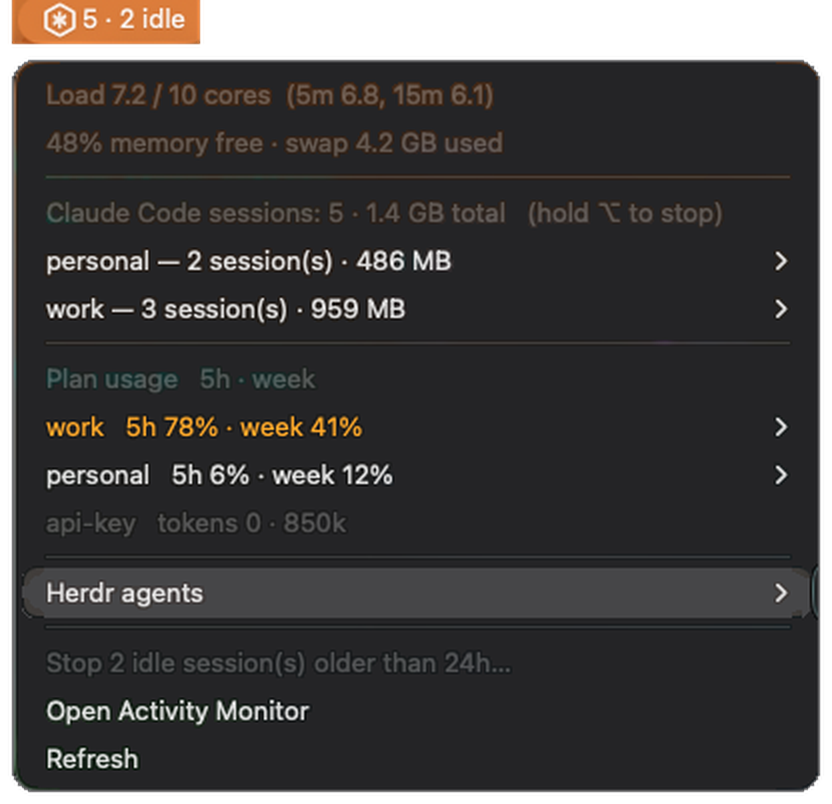
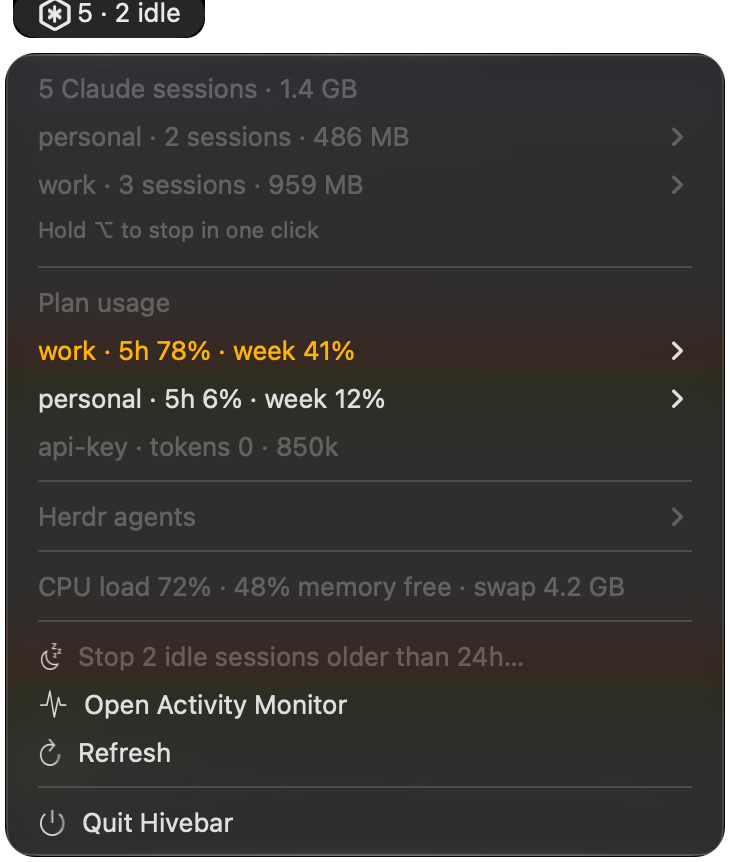
Screenshot of the new menu
Retake docs/menu.png from demo mode after the menu polish; README alt text follows the new section order.

diff --git a/README.md b/README.md
@@ -4,7 +4,7 @@ See every Claude Code session on your Mac at a glance, across all your accounts,
 
 Hivebar is a [SwiftBar](https://swiftbar.app) plugin. When you run many coding agents at once, sessions pile up quietly: tabs you forgot about, background agents from last week, sessions still on an old CLI version. Each one holds a few hundred MB, and together they push your Mac into swap. Hivebar makes them visible and lets you stop them.
 
-<img src="docs/menu.png" width="417" alt="Hivebar menu: system load, Claude Code sessions per account, plan usage per account, Herdr agents">
+<img src="docs/menu.png" width="365" alt="Hivebar menu: Claude Code sessions per account, plan usage per account, Herdr agents, system load">
 
 <sub>Screenshot from demo mode (`HIVEBAR_DEMO=1`): accounts and projects are made up.</sub>
 
